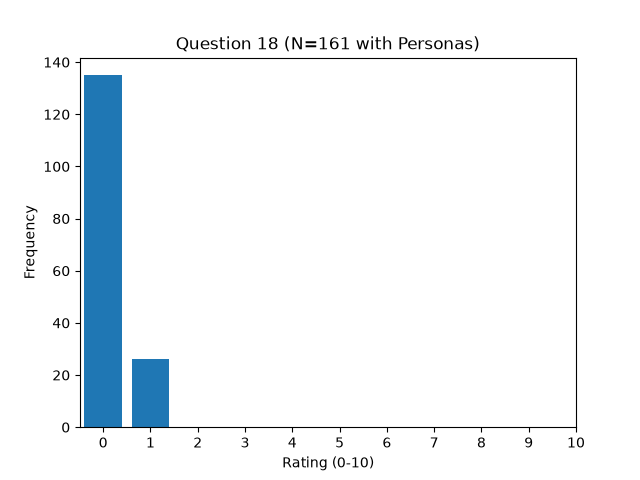
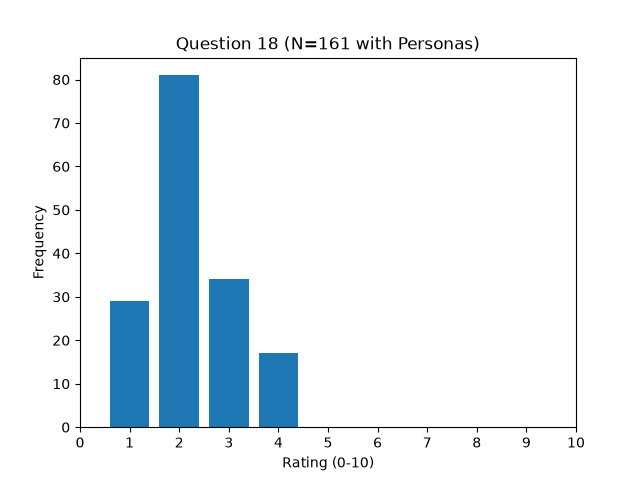
temp0.0結果

diff --git a/Program/Program261007.py b/Program/Program261007.py
@@ -303,7 +303,7 @@ for i, persona in enumerate(trials):
             response = client.models.generate_content(
                 model="gemini-3-flash-preview",
                 contents=prompt,
-                config={"temperature": 1.0},
+                config={"temperature": 0.0},
             )
 
             if not response.text:
